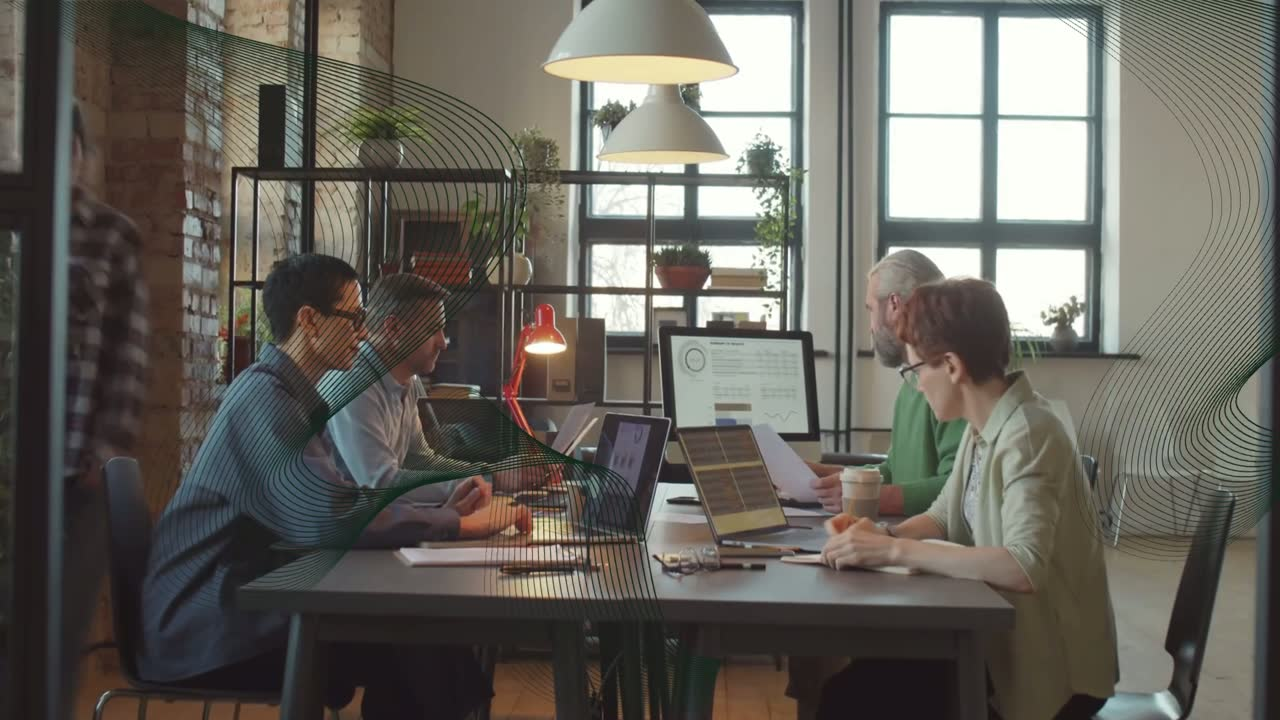
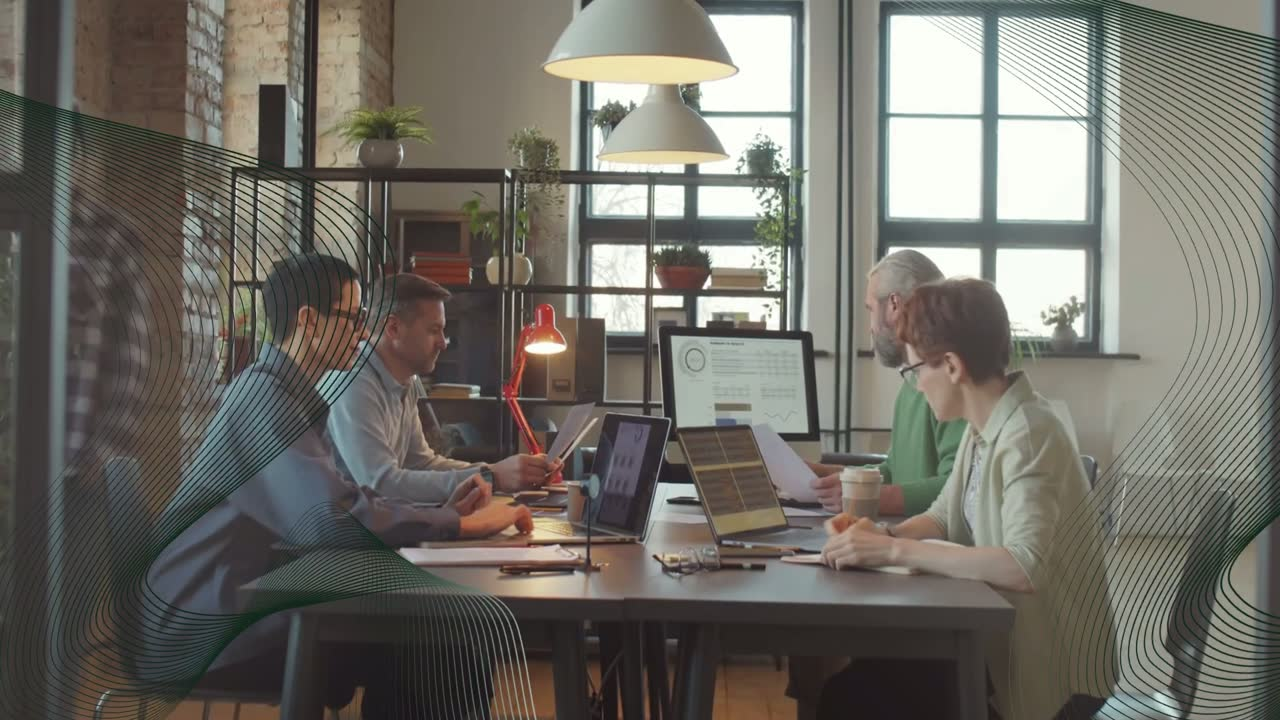
added 5 panels

Changed region(s): [[0.0, 0.0, 0.5312, 1.0], [0.7188, 0.0, 1.0, 1.0]]

diff --git a/app/components/Values.js b/app/components/Values.js
@@ -1,13 +1,16 @@
-/* Case studies — the expanding image-accordion template, with 3 clickable panels
-   (each links to its case-study page). */
+/* Case studies — the expanding image-accordion template, 5 clickable panels
+   (each links to its case-study page). Slots 4 and 5 are Pickfords duplicates
+   standing in until their own case studies land. */
+const PICKFORDS = {
+  slug: "pickfords",
+  label: "Organic search",
+  title: "Pickfords",
+  line: "Organic content clicks up 39% — held and grew straight through the 2026 Google core updates.",
+  img: "/case-studies/pickfords.png",
+};
+
 const CASES = [
-  {
-    slug: "pickfords",
-    label: "Organic search",
-    title: "Pickfords",
-    line: "Organic content clicks up 39% — held and grew straight through the 2026 Google core updates.",
-    img: "/case-studies/pickfords.png",
-  },
+  PICKFORDS,
   {
     slug: "b2b-marketing",
     label: "B2B marketing · AEO",
@@ -22,6 +25,8 @@ const CASES = [
     line: "Referral traffic up 118% while holding #1 on the core commercial term.",
     img: "/case-studies/shira-medtech.png",
   },
+  PICKFORDS,
+  PICKFORDS,
 ];
 
 export default function Values() {
@@ -30,8 +35,8 @@ export default function Values() {
       <div className="wrap">
         <h2 className="reveal">Case studies.</h2>
         <div className="holds reveal" role="list">
-          {CASES.map((c) => (
-            <a className="holds-panel" role="listitem" href={`/case-studies/${c.slug}`} key={c.slug}>
+          {CASES.map((c, i) => (
+            <a className="holds-panel" role="listitem" href={`/case-studies/${c.slug}`} key={`${c.slug}-${i}`}>
               <img className="holds-img" src={c.img} alt="" loading="lazy" />
               <span className="holds-veil" aria-hidden="true"></span>
               <span className="holds-k" aria-hidden="true">{c.label}</span>